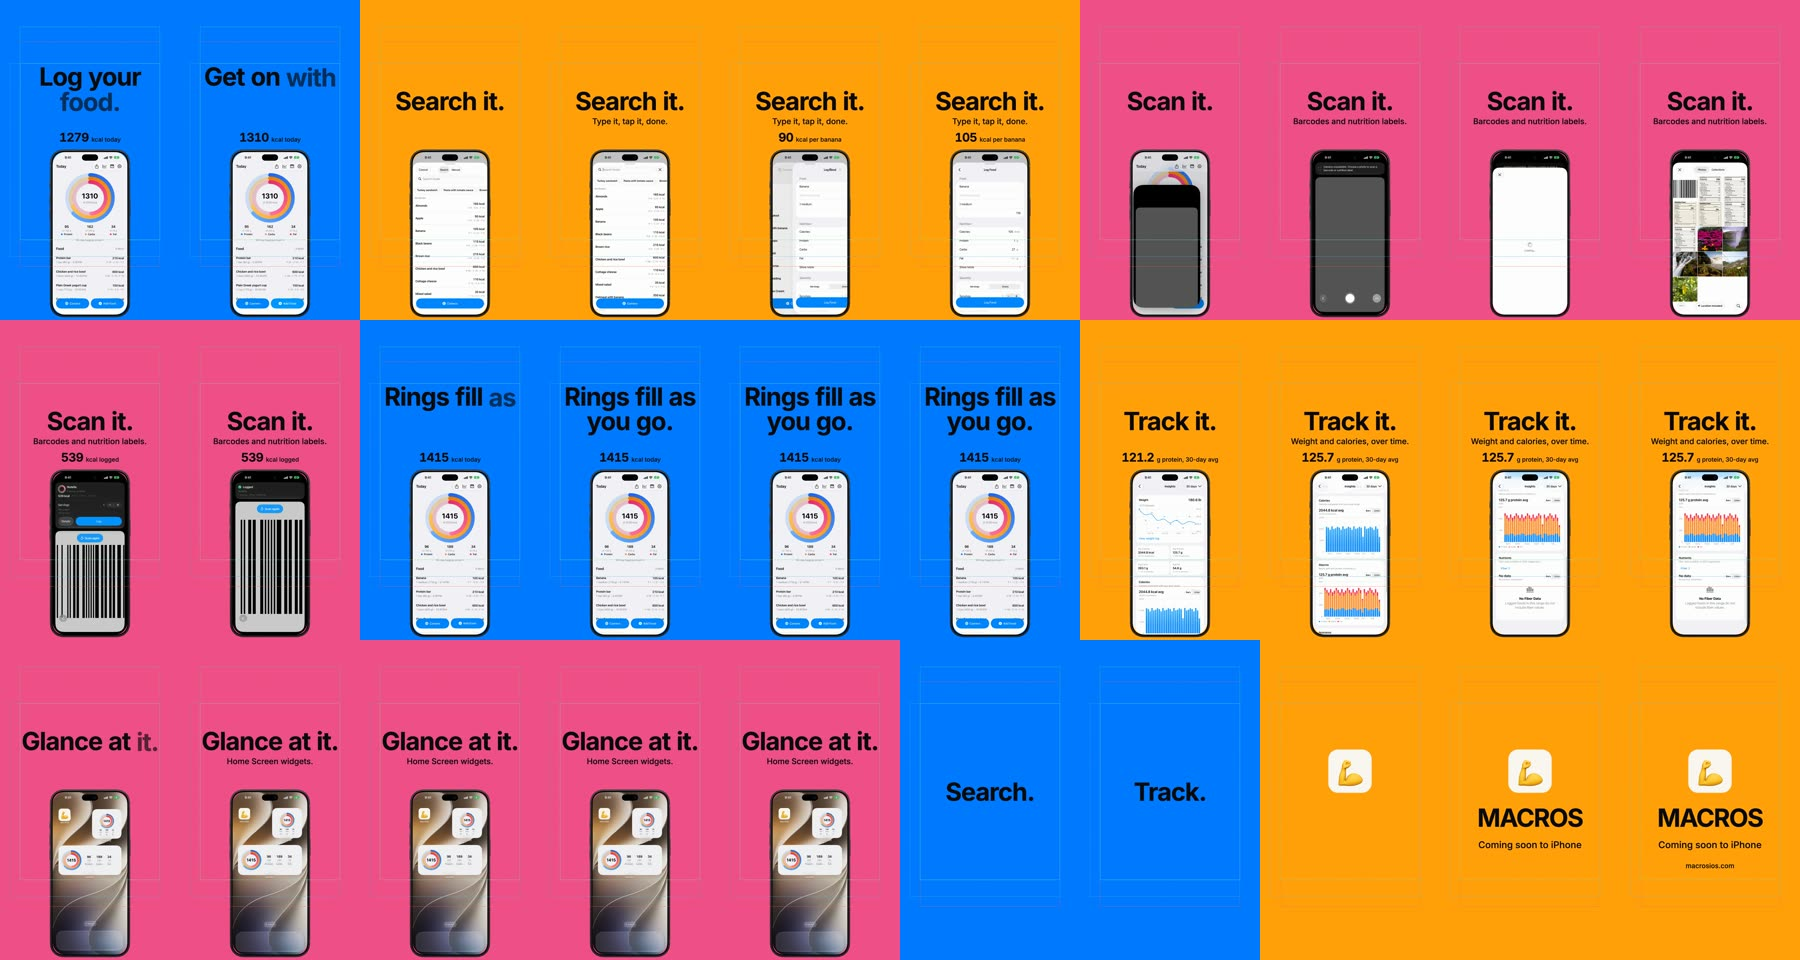
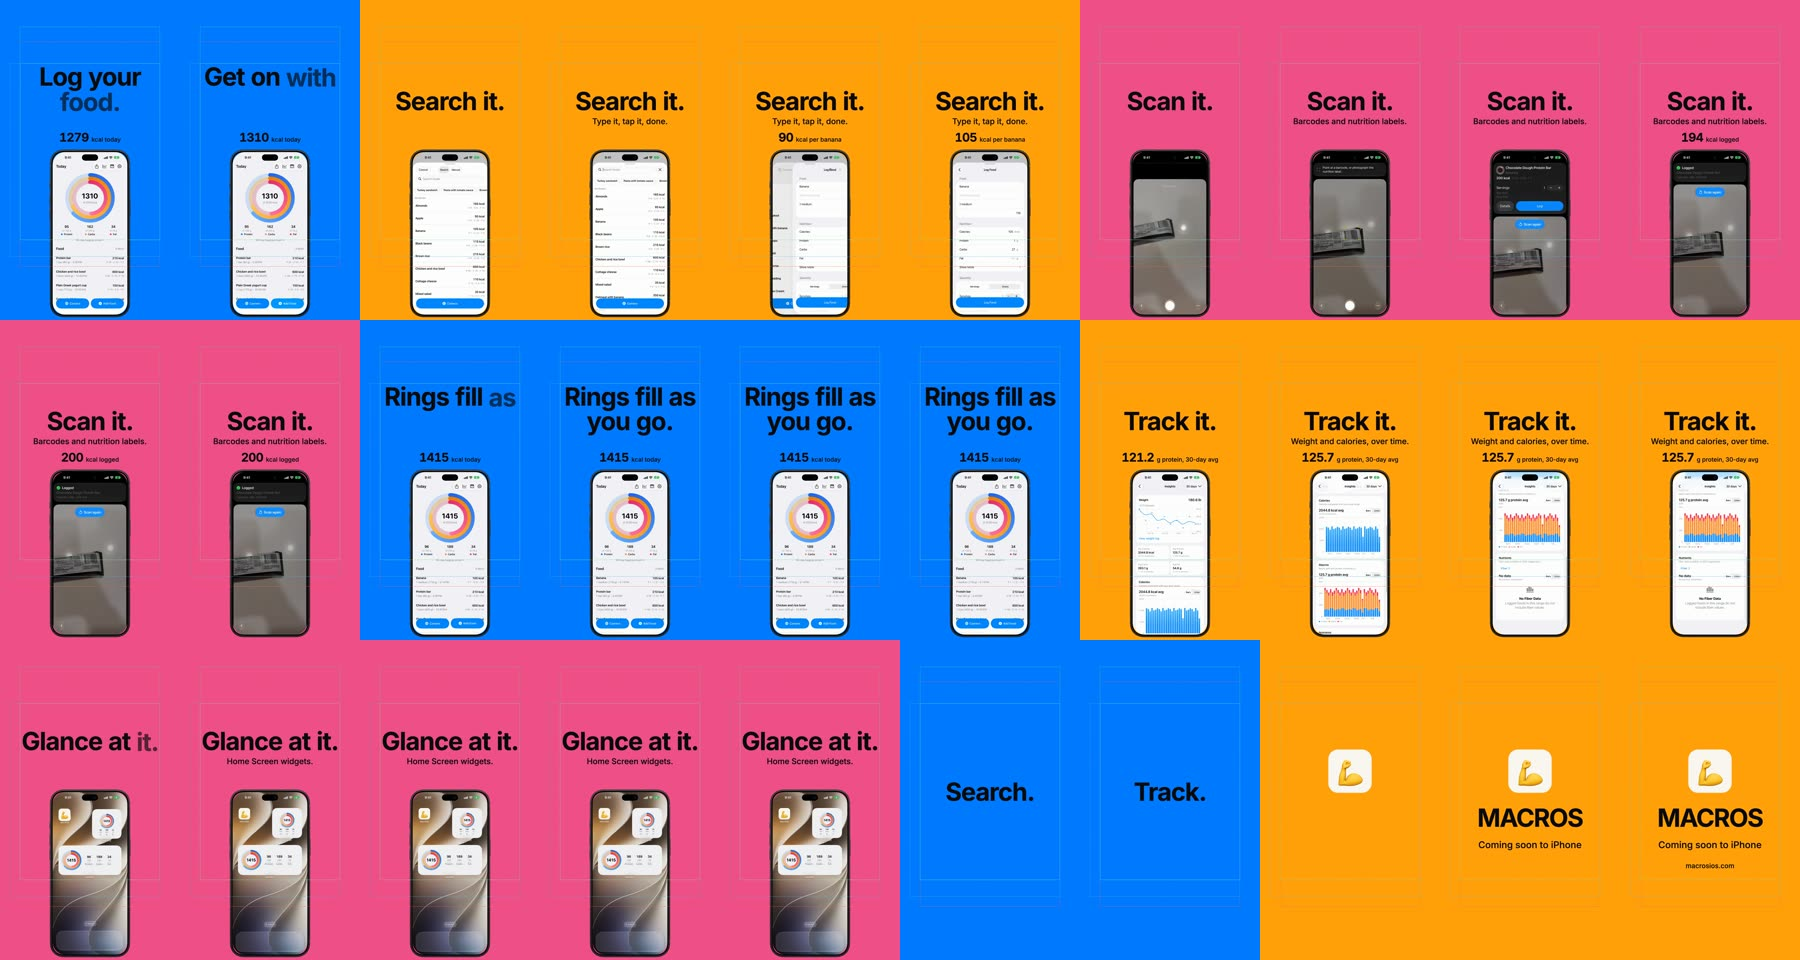
feat: use the original scan footage in the trailer

diff --git a/tools/media/trailer/scripts/prepare-sources.ts b/tools/media/trailer/scripts/prepare-sources.ts
@@ -1,7 +1,7 @@
 // Turns the raw 1320 x 2868 simulator takes into the 30 fps clips the composition reads.
 // Cuts only remove idle frames; no clip is sped up here.
 import { mkdirSync } from "node:fs";
-import { PUBLIC_SOURCES, RAW_DIR, run } from "./paths.ts";
+import { DEMO_VIDEO, PUBLIC_SOURCES, RAW_DIR, run } from "./paths.ts";
 
 type Segment = readonly [from: number, to: number];
 
@@ -16,6 +16,20 @@ function cut(input: string, output: string, segments: Segment[], holdEnd = 0) {
   run(["ffmpeg", "-hide_banner", "-loglevel", "error", "-i", input, "-filter_complex", graph, ...ENCODE, "-y", `${PUBLIC_SOURCES}/${output}`]);
 }
 
+/**
+ * The scan clip from the original demo recording (720 x 1280, 60 fps). The burnt-in "Scan it." pill sits over the real status bar
+ * until about 10 s, so the body crop starts below it at y 222. The status bar strip (rows 148-221) comes from `stripAt`, a frame
+ * after the pill has gone, so the phone shows the recording's own 9:41 status bar. The body plays at 1.0x; `holdEnd` rests the
+ * last frame. Output is 496 x 1078, the screen's aspect.
+ */
+function scan(input: string, output: string, from: number, to: number, stripAt: number, holdEnd: number) {
+  const body = `[0:v]fps=30,trim=start=${from}:duration=${to - from},setpts=PTS-STARTPTS,crop=496:1004:112:222,tpad=stop_mode=clone:stop_duration=${holdEnd}[body]`;
+  const strip = `[0:v]fps=30,trim=start=${stripAt},setpts=PTS-STARTPTS,trim=end_frame=1,crop=496:74:112:148,loop=loop=-1:size=1,setpts=N/FRAME_RATE/TB[strip]`;
+  const frames = Math.round((to - from + holdEnd) * 30);
+  const stack = `[strip][body]vstack=inputs=2:shortest=1,trim=end_frame=${frames},setpts=PTS-STARTPTS,scale=out_range=tv,format=yuv420p`;
+  run(["ffmpeg", "-hide_banner", "-loglevel", "error", "-i", input, "-filter_complex", `${body};${strip};${stack}`, ...ENCODE, "-y", `${PUBLIC_SOURCES}/${output}`]);
+}
+
 mkdirSync(PUBLIC_SOURCES, { recursive: true });
 
 const flow = `${RAW_DIR}/flow-take1.mov`;
@@ -25,6 +39,6 @@ cut(flow, "hook.mp4", [[2.0, 4.0]]);
 cut(flow, "search.mp4", [[4.4, 5.3], [6.3, 7.6], [11.8, 12.6], [13.0, 13.9]], 0.1);
 cut(flow, "rings.mp4", [[14.0, 17.5]], 0.5);
 cut(flow, "home.mp4", [[17.6, 22.6]]);
-// scan-take2: Camera, photo picker, barcode, result card, Logged. Idle stretches between taps are trimmed.
-cut(`${RAW_DIR}/scan-take2.mov`, "scan.mp4", [[2.6, 3.9], [5.6, 6.3], [7.6, 8.6], [10.9, 11.4], [13.6, 14.8], [17.8, 19.0]], 0.1);
+// Scan: camera, barcode, product card, Logged, from the original demo. It ends at 10.2 s, before the insights crossfade; the Logged card rests 2.1 s to make the 6 s shot.
+scan(DEMO_VIDEO, "scan.mp4", 6.3, 10.2, 10.2, 2.1);
 cut(`${RAW_DIR}/insights.mov`, "insights.mp4", [[1.5, 6.3]]);

diff --git a/tools/media/trailer/src/media.tsx b/tools/media/trailer/src/media.tsx
@@ -12,7 +12,7 @@ export const Device: React.FC<{ clip: Clip }> = ({ clip }) => {
   const width = BEZEL.w * s;
   return <div style={{ position: "absolute", left: (1080 - width) / 2, top: STYLE.deviceTop, width, height: BEZEL.h * s }}>
     <OffthreadVideo src={staticFile(`sources/${clip.file}`)} playbackRate={clip.rate} muted
-      style={{ position: "absolute", left: BEZEL.screenX * s, top: BEZEL.screenY * s, width: BEZEL.screenW * s, height: BEZEL.screenH * s, borderRadius: BEZEL.screenRadius * s }} />
+      style={{ position: "absolute", left: BEZEL.screenX * s, top: BEZEL.screenY * s, width: BEZEL.screenW * s, height: BEZEL.screenH * s, borderRadius: BEZEL.screenRadius * s, objectFit: "cover" }} />
     <Img src={staticFile("bezel.png")} style={{ position: "absolute", inset: 0, width: "100%", height: "100%" }} />
   </div>;
 };

diff --git a/tools/media/trailer/src/shots.ts b/tools/media/trailer/src/shots.ts
@@ -34,7 +34,7 @@ export const SHOTS: Shot[] = [
     counters: [{ label: "kcal per banana", from: 0, to: 105, at: 2.2, duration: 0.8 }] },
   { kind: "device", start: 6, end: 12, color: COLORS.fat, clip: { file: "scan.mp4", rate: 1 },
     phases: [phase(0, "Scan", "it.")], support: "Barcodes and nutrition labels.",
-    counters: [{ label: "kcal logged", from: 0, to: 539, at: 3.6, duration: 0.8 }] },
+    counters: [{ label: "kcal logged", from: 0, to: 200, at: 3, duration: 0.8 }] },
   { kind: "device", start: 12, end: 16, color: COLORS.protein, clip: { file: "rings.mp4", rate: 1 },
     phases: [phase(0, "Rings", "fill", "as", "you", "go.")], support: "",
     counters: [{ label: "kcal today", from: 1310, to: 1415, at: -0.05, duration: 0.35 }] },

diff --git a/tools/media/trailer/scripts/paths.ts b/tools/media/trailer/scripts/paths.ts
@@ -7,6 +7,7 @@ export const REPO_ROOT = fromRoot("");
 export const OUT_DIR = fromRoot("build/marketing/trailer");
 export const RAW_DIR = fromRoot("build/marketing/trailer/sources/v3");
 export const PUBLIC_SOURCES = fromRoot("tools/media/trailer/public/sources");
+export const DEMO_VIDEO = fromRoot("web/public/media/macros-demo.d72c87d2.mp4");
 
 export function run(cmd: string[]) {
   const result = spawnSync(cmd[0], cmd.slice(1), { stdio: "inherit" });

diff --git a/docs/evidence/trailer/README.md b/docs/evidence/trailer/README.md
@@ -10,7 +10,7 @@ Toolchain: Bun 1.4.2, Remotion 4.0.543, ffmpeg, macOS. Renders are in `build/mar
 
 Media simulator `D16C3D35-889F-404F-BDD4-C640A6DBC4EF` only, under `/tmp/macros-sim-locks/D16C3D35-889F-404F-BDD4-C640A6DBC4EF` (taken by `mkdir`, released by `rmdir`). The v2 Debug build of `origin/main` (`/tmp/macros-trailer-build`) was installed. Settings > Developer > Load Demo Data (Today 1310 kcal), 9:41 status bar override (full cellular, Wi-Fi, charged battery), `simctl io recordVideo --codec h264`. Taps came from `agent-device`. The simulator was shut down once mid-session to clear a stuck recorder (`Host recording is already in progress`) and booted again; the lock was kept. At the end the override was cleared, the simulator shut down and the lock removed. No other simulator was used and nothing was erased.
 
-Raw takes (`build/marketing/trailer/sources/v3/`, 1320 x 2868 native, 9:41 status bar): `flow-take1.mov` (23.3 s), `scan-take2.mov` (19.4 s), `insights.mov` (copied from the v2 take, 6.9 s). `scan-take1.mov` and `home-take1.mov` were rejected earlier takes (the Home Screen one still had other apps).
+Raw takes (`build/marketing/trailer/sources/v3/`, 1320 x 2868 native, 9:41 status bar): `flow-take1.mov` (23.3 s), `insights.mov` (copied from the v2 take, 6.9 s). `scan-take2.mov` (19.4 s) is no longer used by any shot; it stays on disk. `scan-take1.mov` and `home-take1.mov` were rejected earlier takes (the Home Screen one still had other apps).
 
 ## Sources per shot
 
@@ -18,17 +18,21 @@ Raw takes (`build/marketing/trailer/sources/v3/`, 1320 x 2868 native, 9:41 statu
 | --- | --- | --- | --- |
 | 0-2 s | Hook | `flow-take1.mov` 2.0-4.0 s: Today at 1310 before any log | 1.0x |
 | 2-6 s | Search | `flow-take1.mov` 4.4-5.3, 6.3-7.6, 11.8-12.6, 13.0-13.9 s (+0.1 s hold): Add Food, "banana" results, Log Food form | 1.0x |
-| 6-12 s | Scan | `scan-take2.mov` 2.6-3.9, 5.6-6.3, 7.6-8.6, 10.9-11.4, 13.6-14.8, 17.8-19.0 s (+0.1 s hold): Camera, photo picker, barcode, Nutella result (539 kcal), Logged | 1.0x |
+| 6-12 s | Scan | `web/public/media/macros-demo.d72c87d2.mp4` 6.3-10.2 s (+2.1 s hold of the last frame), body crop x 112, y 222, 496 x 1004, status bar strip x 112, y 148-221 from 10.2 s: camera, barcode, Chocolate Dough Protein Bar (200 kcal), Logged | 1.0x |
 | 12-16 s | Rings | `flow-take1.mov` 14.0-17.5 s (+0.5 s hold): Log Food tapped, sheet dismisses, 1310 to 1415 | 1.0x |
 | 16-20 s | Track | `insights.mov` 1.5-6.3 s | 1.2x |
 | 20-25 s | Glance | `flow-take1.mov` 17.6-22.6 s: Home Screen right after logging, widgets show 1415 | 1.0x |
 | 25-30 s | Type, end card | none | |
 
-Each real moment appears once: the hook is Today before logging, Search ends before the Log tap, Rings starts at the dismissal. Idle time was cut; nothing is sped up except Insights at 1.2x.
+Each real moment appears once: the hook is Today before logging, Search ends before the Log tap, Rings starts at the dismissal. Idle time was cut; nothing is sped up except Insights at 1.2x. The Scan source ends at 10.2 s, before the "Track it." pill and the crossfade into Insights. Its Logged card holds for 2.1 s to make the shot 6.0 s, so Scan is not sped up either.
 
 ## Scan footage chosen
 
-I contact-sheeted the earlier candidates: `dashboard-tutorial-evidence/docs/evidence/camera-card` (1260 x 2736), `camera-zoom-source` and `camera-zoom-source-2` (1206 x 2622, same 0.46 aspect), `addfood-manual`, the App Store clips, and the 720 x 1280 website demo. The `camera-*` clips are UI tests of the card morph, `camera-zoom-source-2` clips are 2 s fragments, and the website demo has a burnt-in pill and is 720 px. None showed the whole barcode to result card to Logged path at native resolution with a 9:41 status bar. I recorded a new native 1320 x 2868 take (`scan-take2.mov`) instead. The simulator has no camera, so the camera preview is a grey placeholder; the barcode comes from the photo picker (an image of a barcode in the simulator's library), which is the app's own "choose photo" path. No UI was painted or faked.
+The Scan shot uses the original demo footage, `web/public/media/macros-demo.d72c87d2.mp4` (720 x 1280, 60 fps), the same source v2 used. The native 1320 x 2868 take `scan-take2.mov` is no longer used. The clip is not upscaled: 496 source pixels fit the 449-pixel opening at about 0.9x.
+
+Splice: the body is the crop below the burnt-in "Scan it." pill (x 112, y 222, 496 x 1004). The pill sits over the real status bar until about 10 s, so the status bar strip is taken from 10.2 s, when the pill is gone: rows 148-221 show the recording's own 9:41 status bar and battery. Rows 0-145 are the page's light grey background, not a status bar, so they are not used. The strip stacks above the body to make 496 x 1078. That is the same aspect as the 1320 x 2868 screen opening, so the cover fit crops almost nothing. The seam looks clean at full size (checked at 7.0 s). Nothing is drawn or faked.
+
+Counter: 0 to 200 kcal, the Chocolate Dough Protein Bar result, starting 3.0 s into the shot as the card becomes Logged. It replaces the Nutella 539 kcal of the scan-take2 take. The Device component now sets `objectFit: cover`; the other clips already have the screen's aspect, so their render is unchanged.
 
 ## Home Screen changes (media simulator, undo list)
 
@@ -46,28 +50,28 @@ All at least 4.5:1. White on these colours would be 4.02, 2.06 and 3.42:1, so it
 
 ## Counters
 
-Values match the recordings. Hook 0 to 1310 kcal (Today's ring). Search 0 to 105 kcal (Banana's Log Food form). Scan 0 to 539 kcal (Nutella result card). Rings 1310 to 1415 kcal. Track 0 to 125.7 g protein 30-day average (Insights). The Track counter starts at the cut (it reads 107.9 about 0.1 s in) and lands within 1 s. Counters stay hidden until counting begins, so none rests at 0.
+Values match the recordings. Hook 0 to 1310 kcal (Today's ring). Search 0 to 105 kcal (Banana's Log Food form). Scan 0 to 200 kcal (Chocolate Dough Protein Bar, 1 serving, Logged). Rings 1310 to 1415 kcal. Track 0 to 125.7 g protein 30-day average (Insights). The Track counter starts at the cut (it reads 107.9 about 0.1 s in) and lands within 1 s. Counters stay hidden until counting begins, so none rests at 0.
 
 ## Checks run
 
-- ffprobe on all three MP4s: h264, yuv420p, 1080 x 1920, 900 frames (counted), 30.000 s, stereo AAC.
-- `bunx tsc --noEmit` and `git diff --check`.
-- Contact sheet, review sheet and frames viewed. Headlines are at most two lines at 150 px. Text sits at x 120-960, y 380-860; the bezel runs lower to y 1910 and carries nothing that must be read.
-- The bezel is a fixed 0.34 scale, same top, no animation, no overlap.
+- ffprobe on all three MP4s: h264, yuv420p, 1080 x 1920, 900 frames (counted), 30.000 s, stereo AAC 48 kHz.
+- Scan clip `scan.mp4`: 496 x 1078, yuv420p, 180 frames, 6.000 s.
+- `bunx tsc --noEmit` and `git diff --check`: both pass.
+- Full-size frames at 7.0, 9.0 and 11.0 s viewed: bezel intact, no pill, real 9:41 status bar, counter 200 kcal logged at 11.0 s.
+- Contact sheet and review sheet regenerated from the new renders.
 
 ## Images
 
 - `contact-2fps.jpg`: 10 x 6 at 180 px.
 - `review-1fps.jpg`: 10 x 3 with safe-zone outlines.
-- `frames-5-10.5-23s.jpg`: full-size frames at 5.0, 10.5 and 23.0 s, side by side.
+- `frames-7-9-11s.jpg`: full-size frames at 7.0, 9.0 and 11.0 s, side by side. Replaces `frames-5-10.5-23s.jpg`.
 - `end-cards-29s.jpg`: coming-soon and app-store at 29.0 s.
 
-Total about 0.75 MiB.
+Total about 0.84 MiB.
 
 ## Not verified
 
 - I did not keep a list of every icon removed from the Home Screen; the App Library undo above works per app. I did not test it.
-- The Scan clip's photo picker shows other images from the simulator library (landscape photos, nutrition labels). They are not third-party app content, but the owner may prefer a library with only the barcode.
-- The camera preview is the simulator's grey placeholder.
+- The 9.0 s frame shows the original recording's own card cross-fade (ghosted text). It is not edited.
 - The bezel rules and badge placement were checked by eye, not by Apple.
 - No audio beyond silence. The owner adds music.

diff --git a/tools/media/trailer/README.md b/tools/media/trailer/README.md
@@ -30,7 +30,7 @@ None of these are tracked. Raw takes are native 1320 x 2868 simulator recordings
 | --- | --- | --- |
 | `flow-take1.mov` 2.0-4.0 s | `hook.mp4` | Hook: Today before logging |
 | `flow-take1.mov` 4.4-5.3, 6.3-7.6, 11.8-12.6, 13.0-13.9 s | `search.mp4` | Search it. |
-| `scan-take2.mov` 2.6-3.9, 5.6-6.3, 7.6-8.6, 10.9-11.4, 13.6-14.8, 17.8-19.0 s | `scan.mp4` | Scan it. |
+| `web/public/media/macros-demo.d72c87d2.mp4` 6.3-10.2 s, cropped to x 112, y 222 (496 x 1028) under a status bar strip from 10.2 s, Logged card held 2.1 s | `scan.mp4` | Scan it. |
 | `flow-take1.mov` 14.0-17.5 s, last frame held 0.5 s | `rings.mp4` | Rings fill as you go. |
 | `insights.mov` 1.5-6.3 s | `insights.mp4` | Track it. (1.2x) |
 | `flow-take1.mov` 17.6-22.6 s | `home.mp4` | Glance at it. |
@@ -58,7 +58,7 @@ The grid is 120 BPM, so one beat is 0.5 s. Cuts land on it.
 | 0.0 | "Log your food." Today before logging, counter 0 to 1310 |
 | 1.0 | "Get on with your day." |
 | 2.0 | "Search it." Banana search, counter 105 kcal |
-| 6.0 | "Scan it." Camera, barcode, result, Logged, counter 539 kcal |
+| 6.0 | "Scan it." Camera, barcode, result, Logged, counter 200 kcal |
 | 12.0 | "Rings fill as you go." Today rolls 1310 to 1415 |
 | 16.0 | "Track it." Insights, counter 125.7 g protein |
 | 20.0 | "Glance at it." Clean Home Screen, widgets at 1415 |

diff --git a/docs/plans/active/launch-trailer.md b/docs/plans/active/launch-trailer.md
@@ -47,7 +47,7 @@ One bold style, tidied toward Apple's announcement look: centred, one idea at a 
 | --- | --- | --- |
 | 0-2 | Hook | Today before logging, 1310 kcal. "Log your food." then, on the 1.0 s beat, "Get on with your day." Counter 0 to 1310. |
 | 2-6 | Search | "Search it." Type it, tap it, done. Search "banana", Banana, the Log Food form (stops before the Log tap). Counter 105 kcal per banana. |
-| 6-12 | Scan | "Scan it." Barcodes and nutrition labels. Camera, photo picker, barcode, Nutella result card, Logged. Counter 539 kcal logged. |
+| 6-12 | Scan | "Scan it." Barcodes and nutrition labels. Camera, barcode, Chocolate Dough Protein Bar result card (200 kcal), Logged. Counter 200 kcal logged. |
 | 12-16 | Rings | "Rings fill as you go." Banana logged: the sheet dismisses and Today rolls 1310 to 1415 kcal. |
 | 16-20 | Track | "Track it." Insights scroll. Counter 125.7 g protein, 30-day avg. |
 | 20-25 | Glance | "Glance at it." The full Home Screen page with only the MACROS widgets and icon, showing 1415. |
